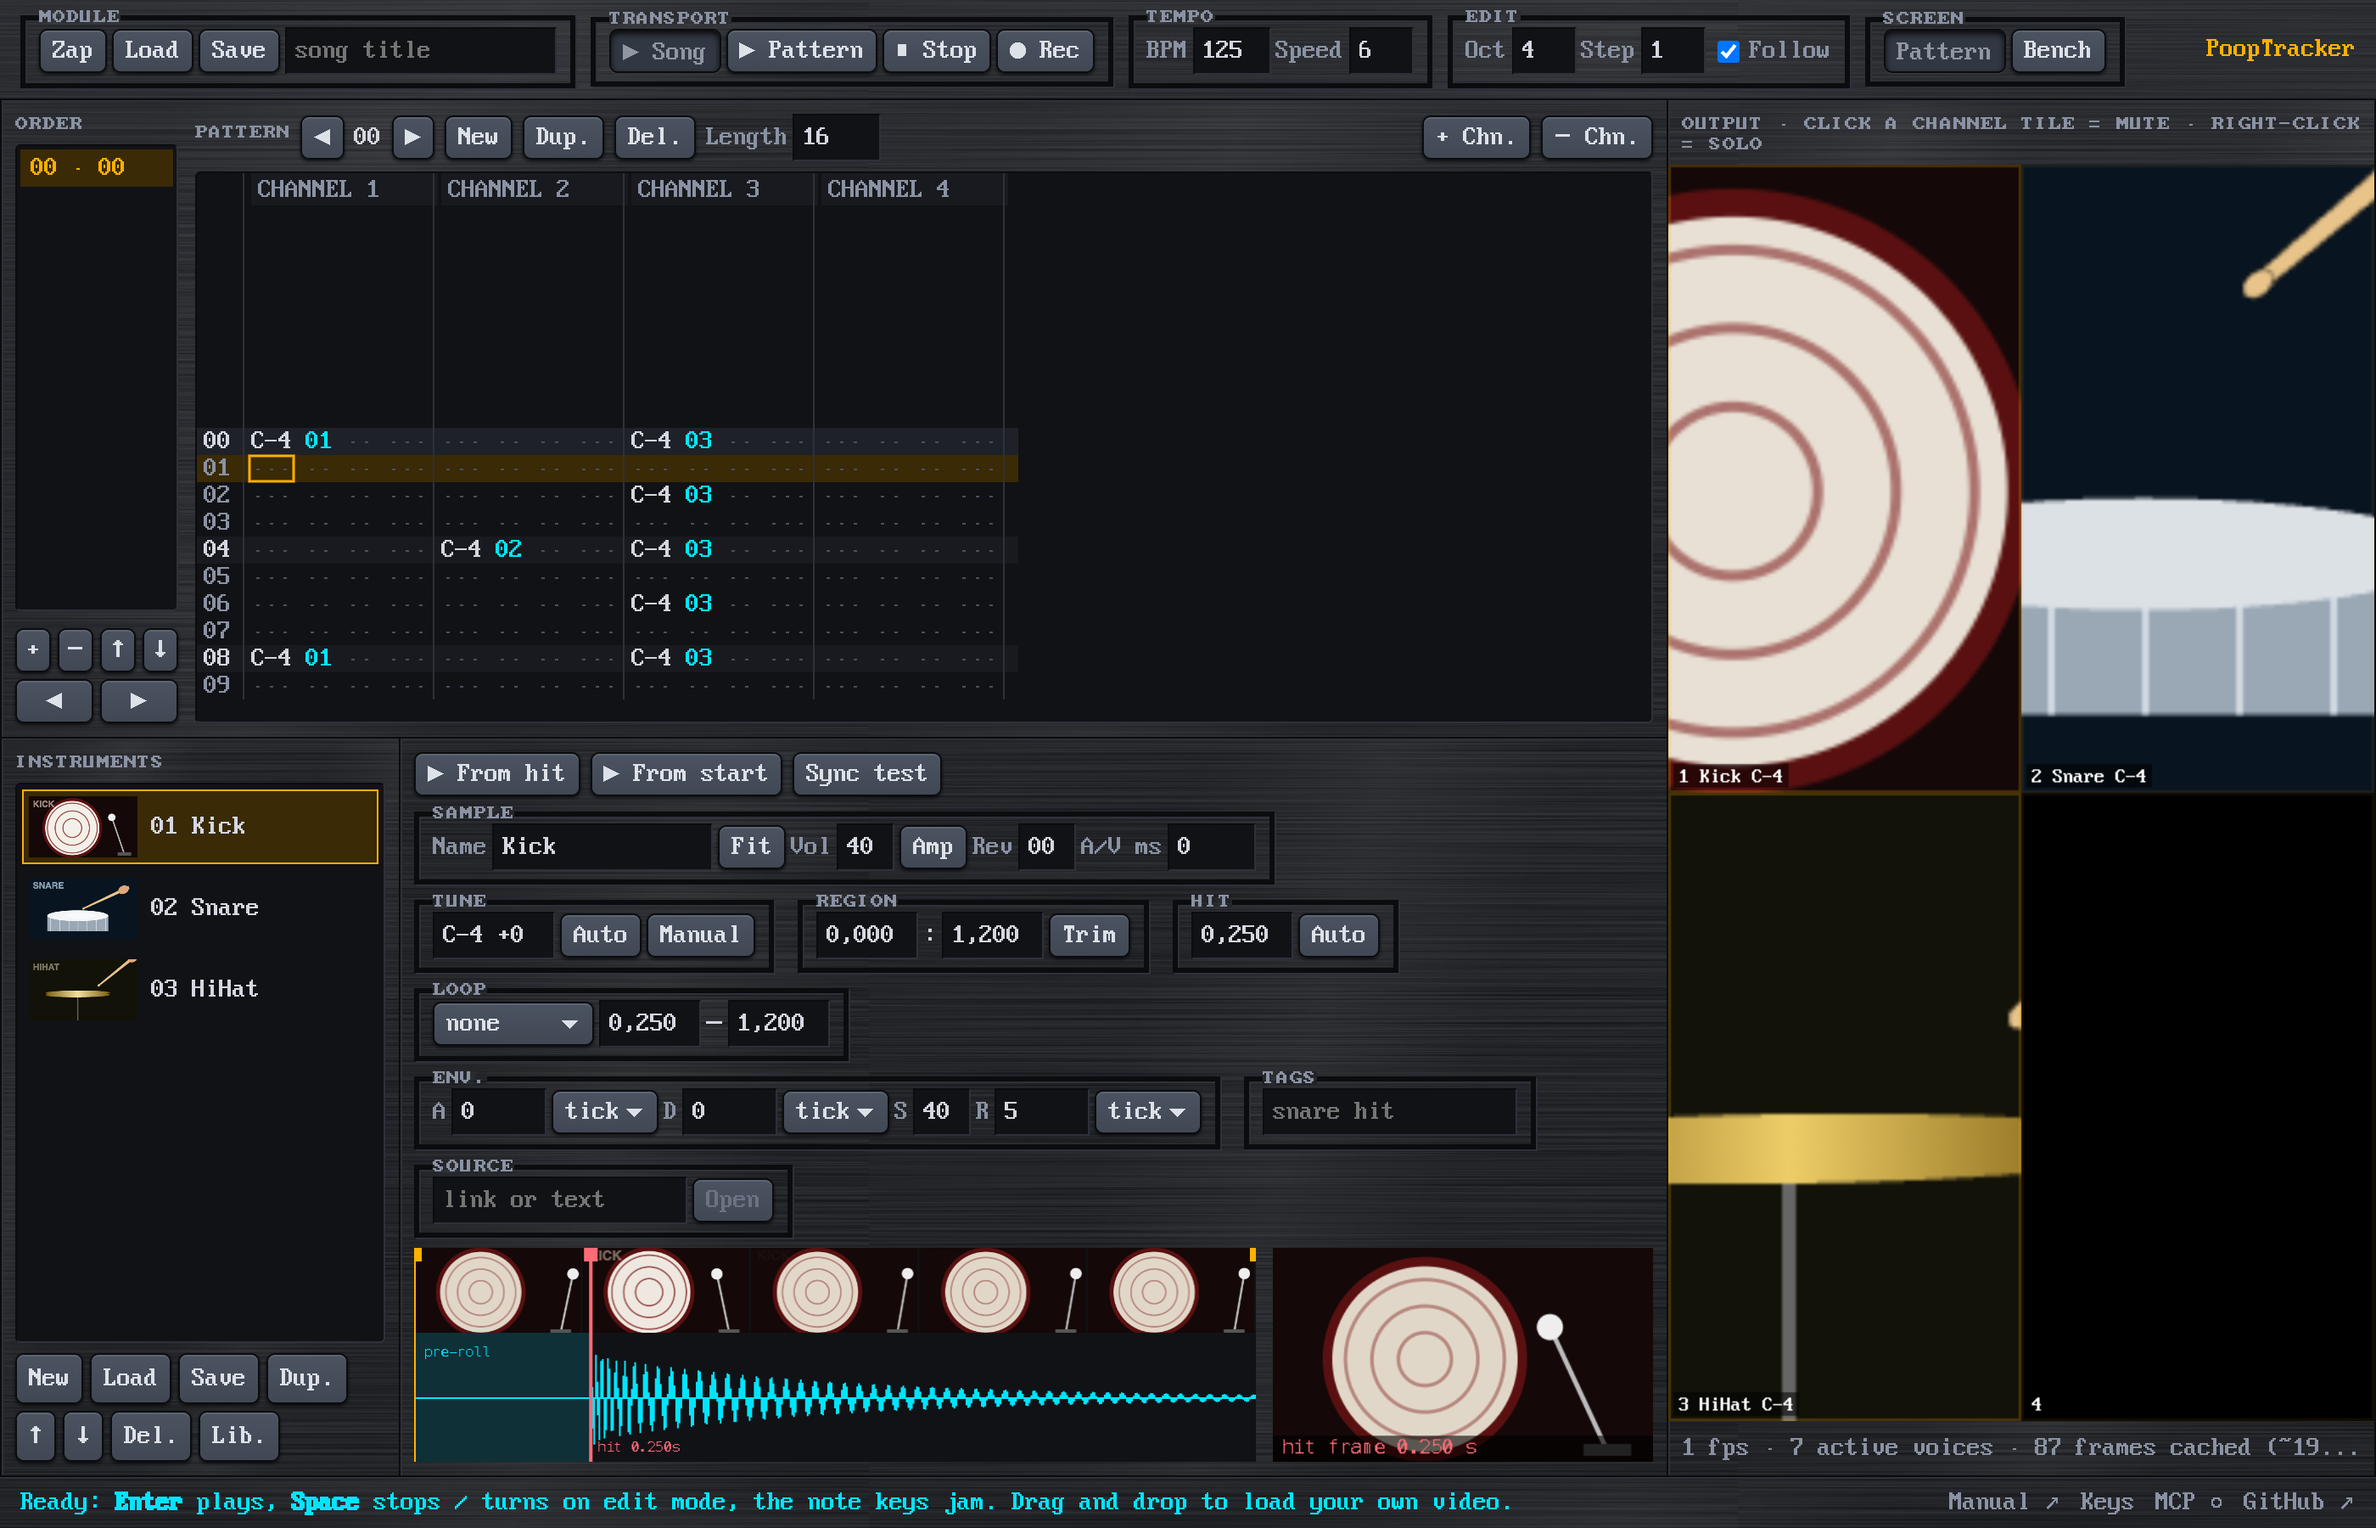
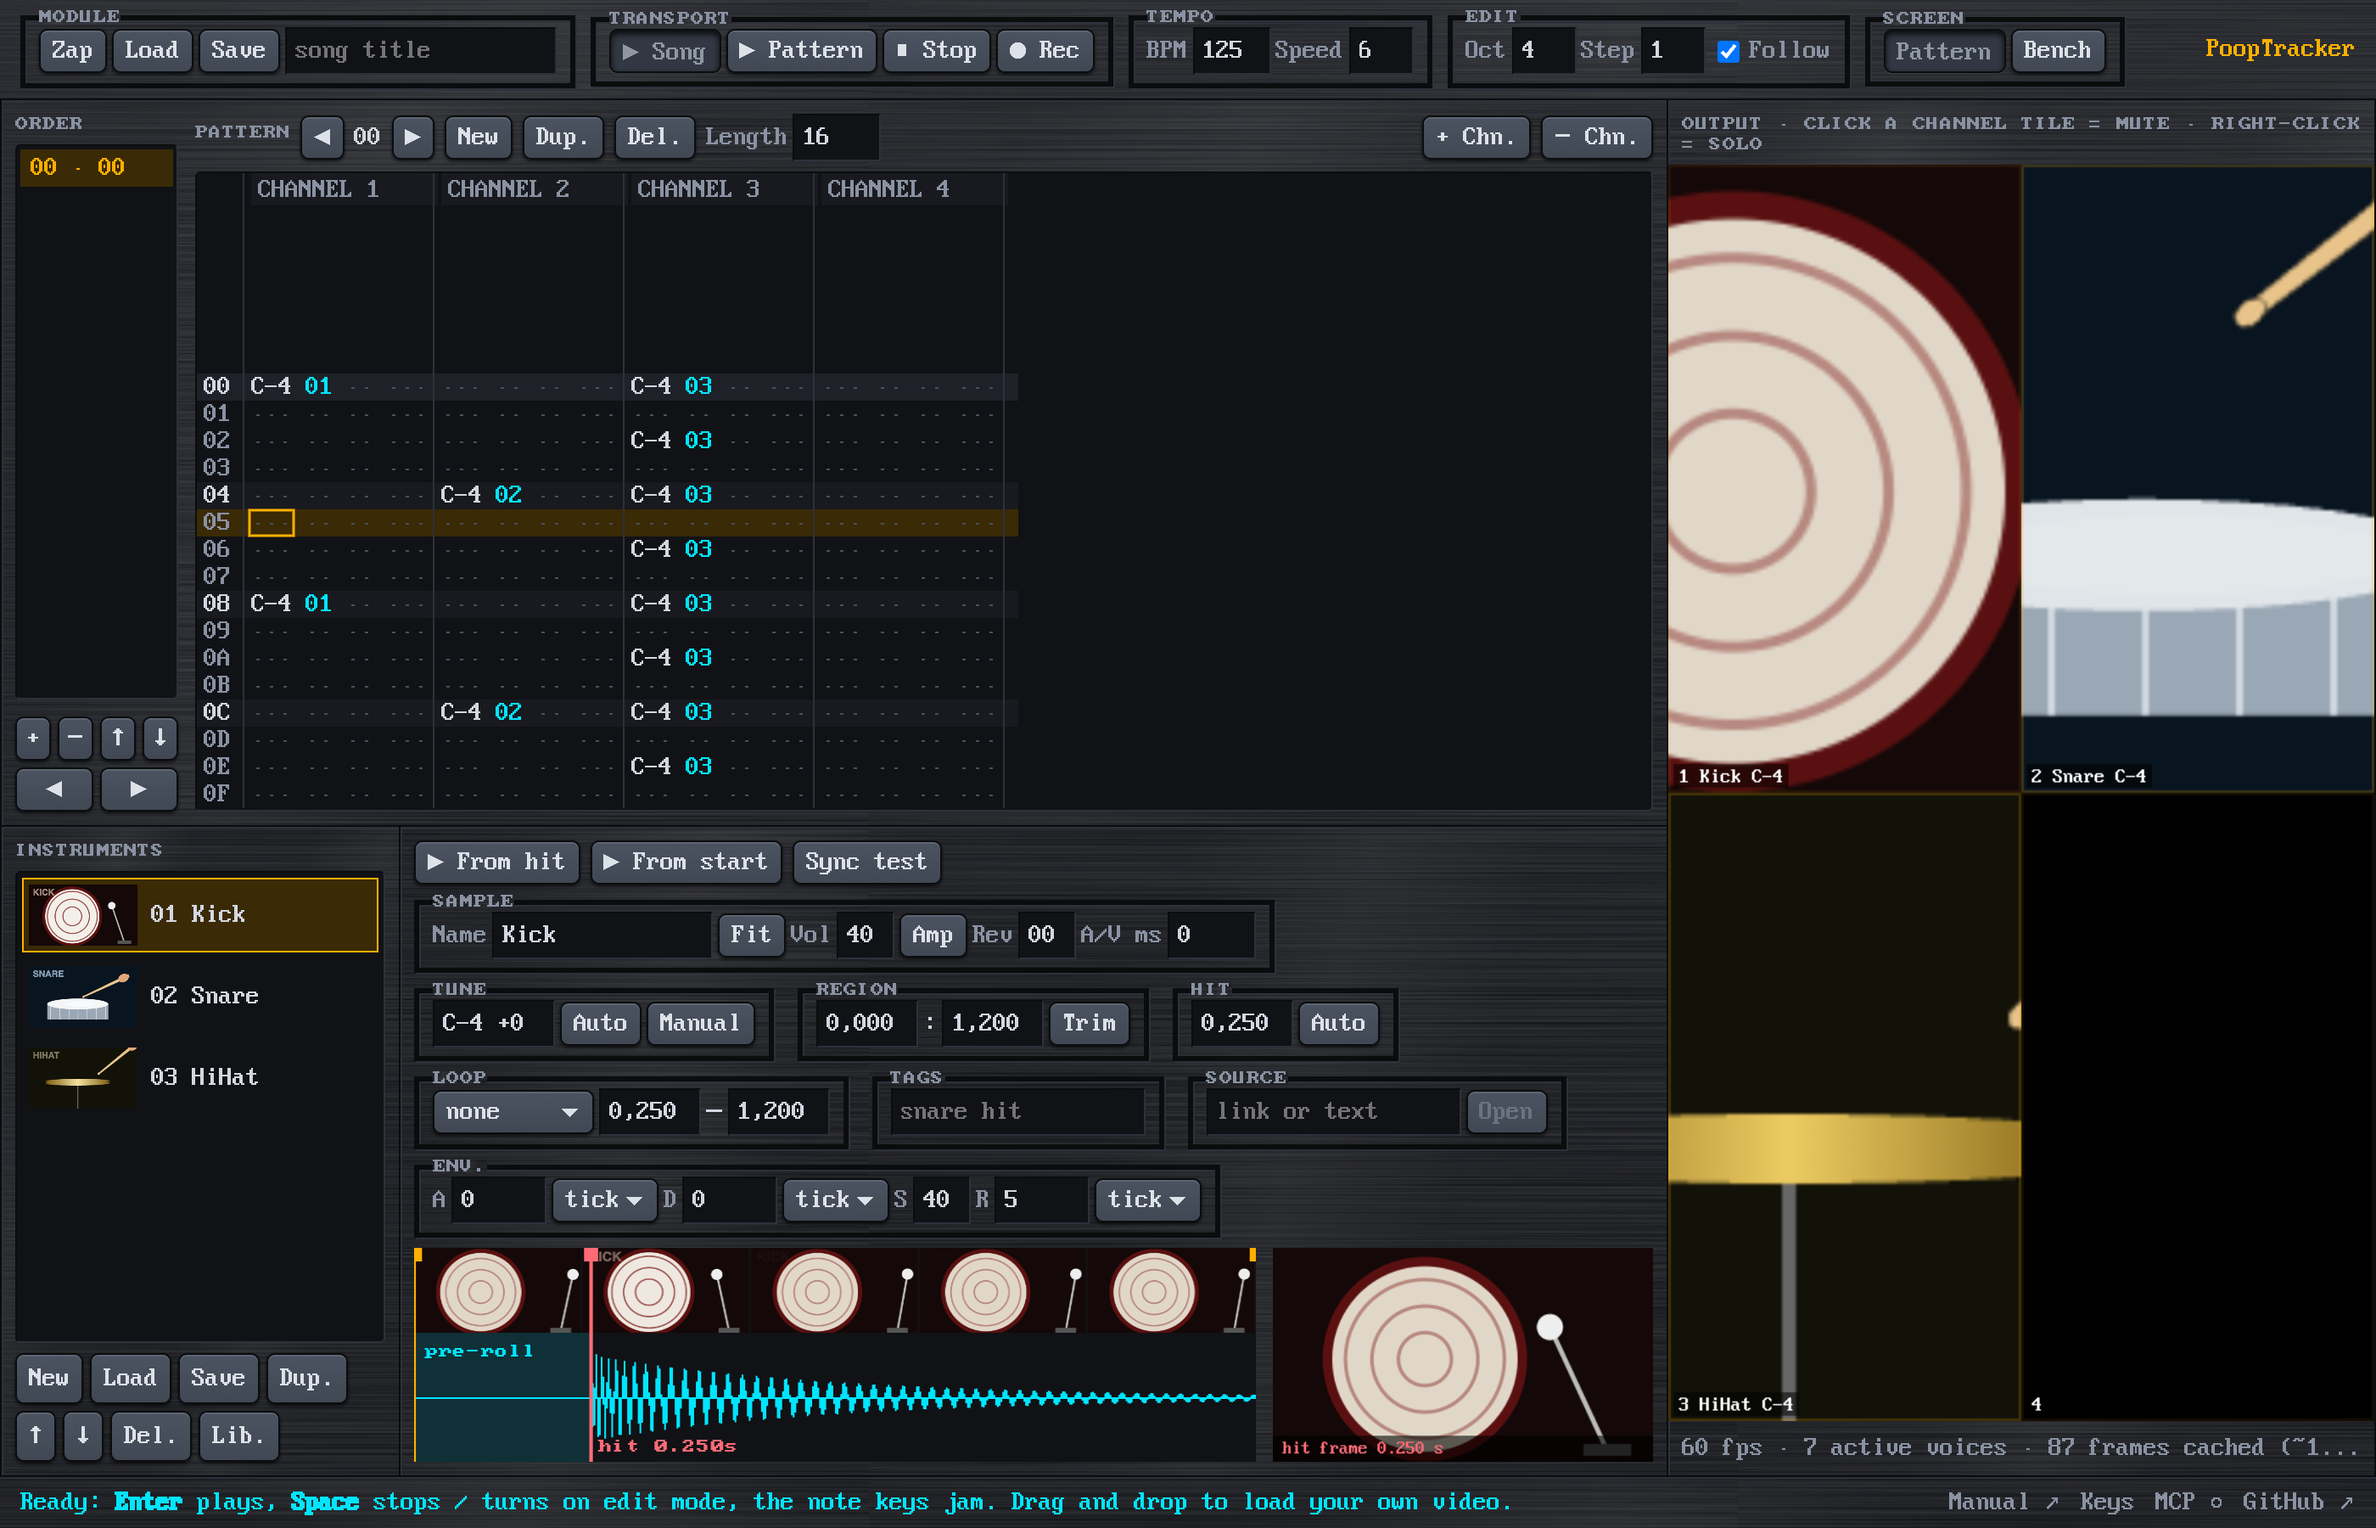
Tags and Source sit next to Loop; the library's preview crops around the focus
Tags and Source moved beside Loop, where there was room: the instrument
panel is four rows again and the pattern editor gets its rows back.

The library's preview fills its box as a tile does, around where the
picture looks at the hit (index.json's focus), in the middle without one.

diff --git a/index.html b/index.html
@@ -315,17 +315,17 @@ header,.card,#statusBar,dialog,fieldset legend{background:var(--metalHair) fixed
       <select id="iLoop" aria-label="Loop mode" title="none: plays once · forward: loop start → end, again and again · pingpong: start → end → start…"><option value="none">none</option><option value="forward">forward</option><option value="pingpong">pingpong</option></select>
       <input id="iLS" type="number" step="0.001" min="0" aria-label="Loop start (s)"> – <input id="iLE" type="number" step="0.001" min="0" aria-label="Loop end (s)">
     </fieldset>
-    <fieldset title="Envelope (ADSR)"><legend>Env.</legend>
-      <label title="Attack: how long the note takes to rise from silence to full volume. Its unit: tick follows the tempo (1 tick = 2.5/BPM s), ms stays fixed.">A<input id="iA" type="number" min="0" style="width:56px"></label><select id="iAu" aria-label="A unit"><option value="t">tick</option><option value="ms">ms</option></select>
-      <label title="Decay: how long it then takes to fall from full volume to the sustain level (S). Its unit: tick follows the tempo (1 tick = 2.5/BPM s), ms stays fixed.">D<input id="iD" type="number" min="0" style="width:56px"></label><select id="iDu" aria-label="D unit"><option value="t">tick</option><option value="ms">ms</option></select>
-      <label title="Sustain: the level the note stays at after the decay, until its key-off (===) or until you let go of the key. Hex 00–40 like Vol (40 = full).">S<input id="iS" maxlength="2" style="width:34px" spellcheck="false"></label>
-      <label title="Release: how long the note takes to fade to silence after its key-off (===) or after you let go of the key. Its unit: tick follows the tempo (1 tick = 2.5/BPM s), ms stays fixed.">R<input id="iR" type="number" min="0" style="width:56px"></label><select id="iRu" aria-label="R unit"><option value="t">tick</option><option value="ms">ms</option></select>
-    </fieldset>
     <fieldset><legend>Tags</legend>
       <input id="iTags" style="width:150px" spellcheck="false" placeholder="snare hit" aria-label="Tags" title="What the sound is, to find it by: words split by spaces (snare hit crash; a # in front is fine). Lowercase letters and digits, words joined by dashes (big-room). They travel with the video">
     </fieldset>
     <fieldset><legend>Source</legend>
       <input id="iSrc" style="width:150px" spellcheck="false" placeholder="link or text" aria-label="Source" title="Where the video comes from: a link (a YouTube one with ?t= for the second the piece starts at) or any text. It travels with the video. A piece cut on the bench from a video downloaded with yt-dlp --embed-metadata gets it by itself"><button id="bSrc" title="Open the source link in a new tab">Open</button>
+    </fieldset>
+    <fieldset title="Envelope (ADSR)"><legend>Env.</legend>
+      <label title="Attack: how long the note takes to rise from silence to full volume. Its unit: tick follows the tempo (1 tick = 2.5/BPM s), ms stays fixed.">A<input id="iA" type="number" min="0" style="width:56px"></label><select id="iAu" aria-label="A unit"><option value="t">tick</option><option value="ms">ms</option></select>
+      <label title="Decay: how long it then takes to fall from full volume to the sustain level (S). Its unit: tick follows the tempo (1 tick = 2.5/BPM s), ms stays fixed.">D<input id="iD" type="number" min="0" style="width:56px"></label><select id="iDu" aria-label="D unit"><option value="t">tick</option><option value="ms">ms</option></select>
+      <label title="Sustain: the level the note stays at after the decay, until its key-off (===) or until you let go of the key. Hex 00–40 like Vol (40 = full).">S<input id="iS" maxlength="2" style="width:34px" spellcheck="false"></label>
+      <label title="Release: how long the note takes to fade to silence after its key-off (===) or after you let go of the key. Its unit: tick follows the tempo (1 tick = 2.5/BPM s), ms stays fixed.">R<input id="iR" type="number" min="0" style="width:56px"></label><select id="iRu" aria-label="R unit"><option value="t">tick</option><option value="ms">ms</option></select>
     </fieldset>
     </div>
     <div id="waveWrap"><canvas id="wave" title="Drag the region (yellow), hit (red) and loop (green) handles; click empty space: the hit goes there. Dark: outside the region; blue: pre-roll"></canvas><canvas id="framePrev" width="320" height="180" title="Click: the focus, the point the tiles keep in view (the frame shows what a one-channel tile sees) · Alt+click: back to the middle"></canvas></div>
@@ -457,7 +457,7 @@ header,.card,#statusBar,dialog,fieldset legend{background:var(--metalHair) fixed
     "./src/ui/common.js": "./src/ui/common.js?v=df7abd3b77",
     "./src/ui/files.js": "./src/ui/files.js?v=1926859382",
     "./src/ui/instrumentPanel.js": "./src/ui/instrumentPanel.js?v=5ec77526ba",
-    "./src/ui/library.js": "./src/ui/library.js?v=4c83c95e68",
+    "./src/ui/library.js": "./src/ui/library.js?v=61e6426def",
     "./src/ui/opening.js": "./src/ui/opening.js?v=8ad2e10dba",
     "./src/ui/output.js": "./src/ui/output.js?v=be938372ad",
     "./src/ui/palette.js": "./src/ui/palette.js?v=d8faf9d440",

diff --git a/src/ui/library.js b/src/ui/library.js
@@ -10,11 +10,12 @@ import { instruments } from '../core/song.js';
 import { CmdError } from '../core/commands.js';
 import { importVideo, replaceVideo, NO_SOUND } from '../io.js';
 import { $, ed, setStatus } from './common.js';
+import { coverRect } from './output.js';
 
 const REPO = 'miratcan/pooptracker-instruments', FORMAT = 1;
 const CUSTOM = new URLSearchParams(location.search).get('library');
 const dlg = $('#libDlg'), list = $('#libList'), find = $('#libFind'), prev = $('#libPrev'), wait = $('#libPrevNow');
-let lib = null;    // { base, items: [{ path, name, length, bytes, tags?, source? }] }
+let lib = null;    // { base, items: [{ path, name, length, bytes, tags?, focus?: [x, y], source? }] }
 let shown = [];    // the items the search lets through, in list order
 let sel = null;    // the selected item
 let busy = false;
@@ -88,6 +89,15 @@ function pick(item) {
 }
 function waiting(text, err = false) { wait.hidden = !text; wait.textContent = text ?? ''; wait.classList.toggle('err', err); }
 prev.addEventListener('loadeddata', () => waiting(null));
+// the preview crops the video as a tile does: around where the picture looks at the hit (the middle without a focus).
+// coverRect says which part of the frame shows; object-position puts that part in the box
+prev.addEventListener('loadedmetadata', () => {
+  const vw = prev.videoWidth, vh = prev.videoHeight, f = sel?.focus;
+  if (!vw || !vh) return;
+  const r = coverRect(vw, vh, prev.clientWidth / prev.clientHeight, f ? { x: f[0], y: f[1] } : undefined);
+  const pct = (o, slack) => slack > 0.5 ? `${(o / slack * 100).toFixed(1)}%` : '50%';
+  prev.style.objectPosition = `${pct(r.x, vw - r.w)} ${pct(r.y, vh - r.h)}`;
+});
 prev.addEventListener('error', () => { if (prev.getAttribute('src')) waiting("⚠ the video couldn't be loaded", true); });
 function side() {
   const info = $('#libInfo'); info.replaceChildren();

diff --git a/test/ui.test.js b/test/ui.test.js
@@ -425,6 +425,7 @@ test('the library lists its instruments by folder, finds them, adds one with its
   await page.click('#libList .libItem');
   assert.equal(await text(page, '#libPrevNow'), 'Loading…'); // over the black picture until the video is in
   await page.waitFor(() => document.querySelector('#libPrevNow').hidden, 8000);
+  assert.equal(await page.eval(() => document.querySelector('#libPrev').style.objectPosition), '0% 50%'); // cropped around its focus (left edge)
   assert.match(await text(page, '#libInfo'), /^41 KB\s*from: https:\/\/example\.com\/click/);
   const n = await page.eval(async () => (await import('/src/core/song.js')).instruments.length);
   await page.click('#libAdd');
